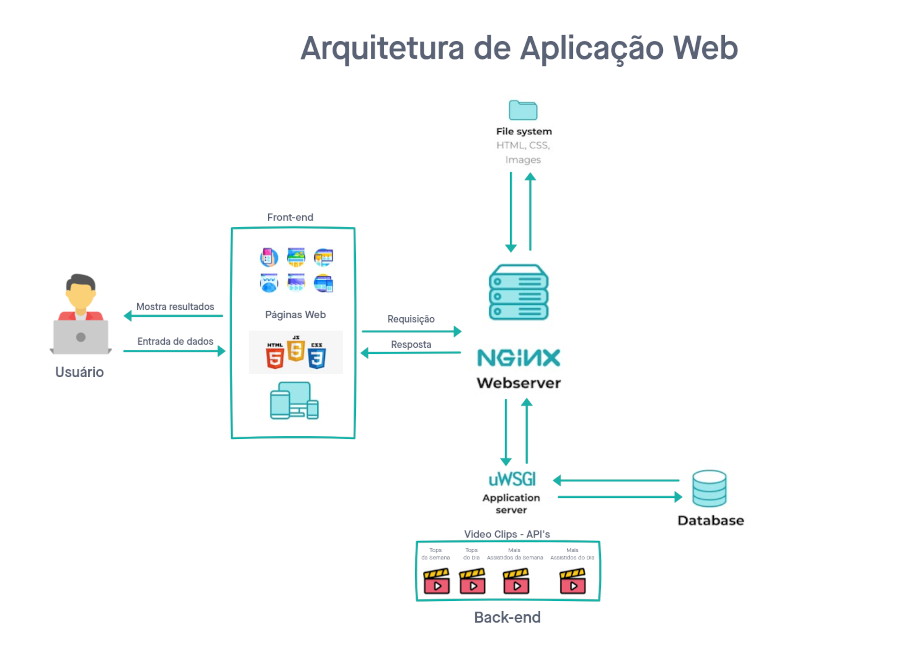
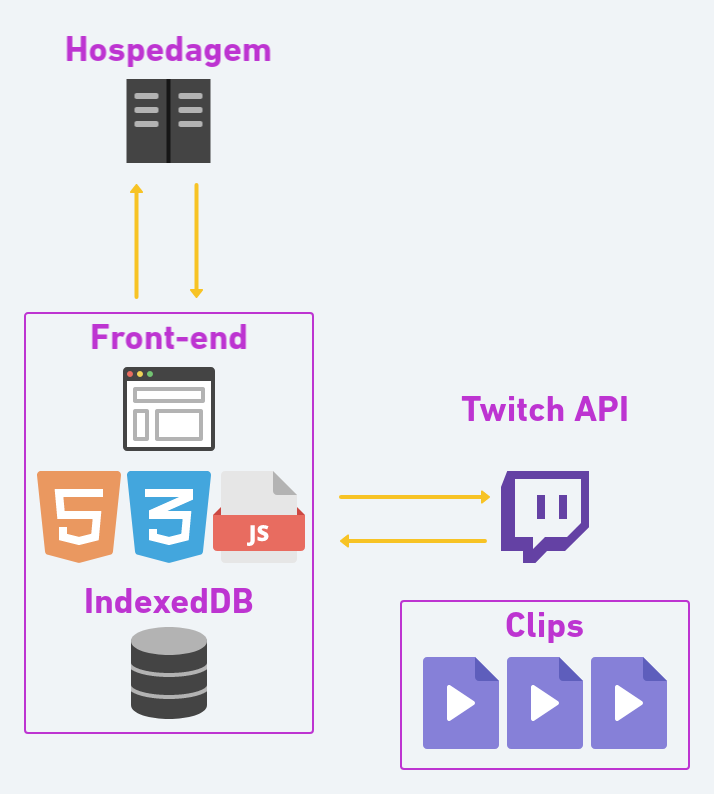
Atualização do diagrama de componentes

diff --git a/docs/03-Metodologia.md b/docs/03-Metodologia.md
@@ -53,7 +53,7 @@ As ferramentas empregadas no projeto são:
 
 - [Visual Studio Code](https://code.visualstudio.com/)
 - [Microsoft Teams e WhatsApp](https://www.microsoft.com/pt-br/microsoft-teams/group-chat-software)
-- [Invision](https://www.invisionapp.com/)
+- [Whimsical](https://whimsical.com/)
 - [GitHub](https://github.com/)
 
 O editor de código Visual Studio Code, gratuito, foi escolhido porque ele oferece ampla gama de extensões que permitem que o editor ofereça funcionalidades expansíveis com diversas linguagens de programação e integração com o sistema de versionamento Git e GitHub, além disso é amplamente utilizado pela comunidade, permitindo encontrar suporte e informações a respeito dele.

diff --git a/docs/05-Arquitetura da Solução.md b/docs/05-Arquitetura da Solução.md
@@ -19,13 +19,11 @@ A hospedagem da aplicação web será feita no Heroku.
 
 ![Diagrama de Componentes](img/componentes.png)
 
-Figura 01 - Arquitetura da Solução
-
 A solução implementada conta com os seguintes módulos:
 
 - **Páginas web** - Conjunto de arquivos HTML, CSS, JavaScript e imagens que implementam as funcionalidades do sistema;
 
-- **Banco de dados** - É uma coleção organizada de dados, de modo que pode ser facilmente acessada e gerenciada;
+- **Banco de dados (IndexedDB)** - É uma coleção organizada de dados, de modo que pode ser facilmente acessada e gerenciada;
 
 - **Twitch API** - Conjunto de pontos de acesso aos clips do Twitch através do front-end;
 
